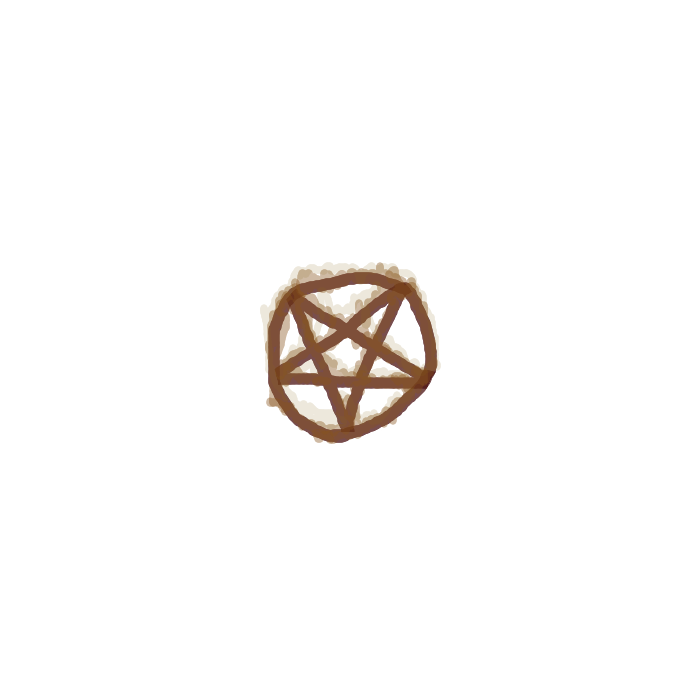
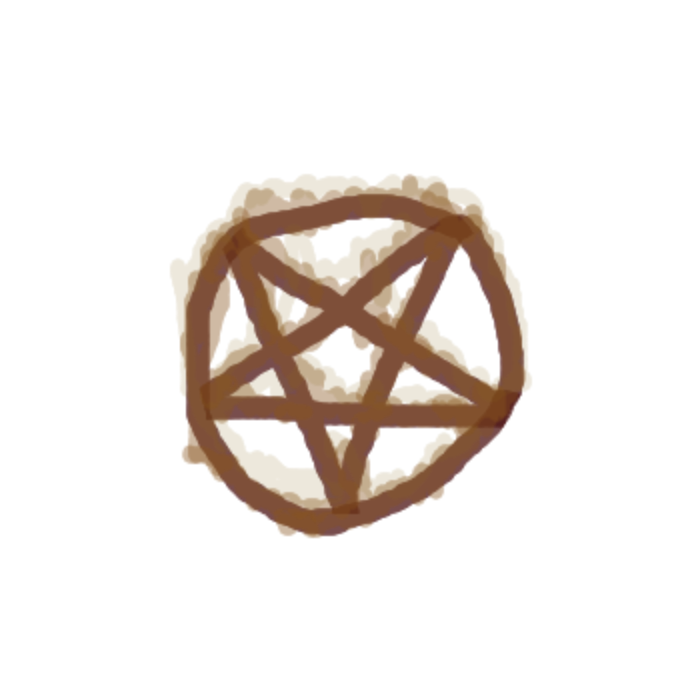
add hell_star

Changed region(s): [[0.24, 0.24, 0.78, 0.78]]

diff --git a/monsters.py b/monsters.py
@@ -213,6 +213,12 @@ class FireBall(Zombie):
             self.ultimatum -= 1
             if not self.ultimatum or not self.target.lives:
                 self.fire = False
+        while self.alive:
+            if self.degeneration:
+                self.degeneration -= 1
+            else:
+                self.alive = False
+            time.sleep(0.01)
 
     def display(self, env):
         fitting = 0.23 * self.dimensions if self.direction % 2 else 0
@@ -224,12 +230,6 @@ class FireBall(Zombie):
         if env.debug and self.fire:
             pygame.draw.line(env.GameManager, (255, 0, 0), (self.target.x + self.target.half, self.target.y + self.target.half), (self.x + self.half, self.y + self.half))
             tools.display(env, self.hitbox.img, self.hitbox.x, self.hitbox.y)
-
-    def update(self):
-        if not self.fire and self.degeneration:
-            self.degeneration -= 1
-        elif not self.fire and not self.degeneration:
-            self.alive = False
 
 class Daemon(Zombie):
     lives = 135
@@ -253,7 +253,7 @@ class Daemon(Zombie):
         self.spell = randint(250, 400)
         self.spell_type = [self.fire_spell , self.star_spell]
         self.fire_ball = FireBall.build_class(env)
-        self.hell_star = bullets.HellStar.build_class(env)
+        self.hell_star = bullets.HellStar.build_class(env, self)
         self.shooting = -1
         self.fire_star = 0
         self.summoning = 4
@@ -284,7 +284,7 @@ class Daemon(Zombie):
             direction, _ = self.sniff_fresh_flesh()
             if direction is not None:
                 self.direction = direction
-                if not self.spelling:
+                if int(self.shooting) == -1:
                     tools.move(self, direction, self.rapidity + self.env.furious)
                 self.hitbox.update_coords(self)
             self.target_hitted()
@@ -298,14 +298,14 @@ class Daemon(Zombie):
             img = self.img_dead[self.direction]
         elif self.furious:
             img = self.img_furious[self.direction]
-        elif self.spelling:
-            img = self.img_spelling[self.direction]
         elif self.injured:
             img = self.img_injured[self.direction]
+        elif self.spelling:
+            img = self.img_spelling[self.direction]
         else:
             img = self.img[self.direction]
         tools.display(env, img, self.x, self.y, fitting)
-        if self.spelling:
+        if int(self.shooting) != -1:
             tools.display(env, self.img_shooting[int(self.shooting) % 8], self.x, self.y, 0.23 * self.dimensions if int(self.shooting) % 2 else 0)
         if env.debug and self.lives:
             pygame.draw.line(env.GameManager, (255, 0, 0), (self.target.x + self.target.half, self.target.y + self.target.half), (self.x + self.half, self.y + self.half))
@@ -328,10 +328,10 @@ class Daemon(Zombie):
         self.shooting = 0.0
 
     def star_spell(self):
-        self.fire_star = 1000
+        self.fire_star = 150
         if self.summoning:
             x, y = self.get_coords(self.summoning)
-            hell_star = self.hell_star(self.env, x, y, self.env.players[randint(0, len(self.env.players))])
+            hell_star = self.hell_star(x, y, self.direction)
             t = Thread(target=hell_star.move, args=())
             t.daemon = True
             self.env.bullets.append(hell_star)
@@ -350,7 +350,7 @@ class Daemon(Zombie):
         elif int(self.shooting) != -1:
             self.shooting = -1
             for i in range(1, 5):
-                x, y = get_coords(i)
+                x, y = self.get_coords(i)
                 fire_ball = self.fire_ball(self.env, x, y, self.env.players[randint(0, len(self.env.players))])
                 t = Thread(target=fire_ball.move, args=())
                 t.daemon = True
@@ -359,9 +359,13 @@ class Daemon(Zombie):
             self.spelling = False
         elif self.fire_star:
             self.fire_star -= 1
+            if not self.fire_star:
+                self.spelling = False
         elif self.spell:
             self.spell -= 1
         else:
+            #randint
+            #self.spell_type[1]()
             self.spell_type[randint(0, len(self.spell_type))]()
             self.spell = randint(500, 1100)
             self.spelling = True
@@ -378,9 +382,8 @@ class   Minion(Zombie):
         return Minion
 
     def __init__(self, env, x, y):
-        self.x = x + env.width + 200 if x > -100 else x
-        self.y = y + env.height + 200 if y > -100 else y
-
+        self.x = x
+        self.y = y
         self.rapidity = randint(3, 7)
         self.rapidity = 4 if self.rapidity > 4 else self.rapidity
         self.hitbox = set_hitbox_monster(env, self, 0.26)

diff --git a/bullets.py b/bullets.py
@@ -78,57 +78,55 @@ class   Bullet:
                 time.sleep(0.01)
 
 class   HellStar:
-    def build_class(env, player):
-        Bullet.dimensions = player.dimensions
-        Bullet.img = tools.set_imgs(env.img_src + "bullets/", "bullet", player.dimensions)
-        Bullet.player = player
-        Bullet.env = env
-        Bullet.limitx = env.width + 100
-        Bullet.limity = env.height + 100
-        return Bullet
+    def build_class(env, monster):
+        HellStar.dimensions = monster.dimensions
+        HellStar.img = tools.set_imgs(env.img_src + "bullets/", "hell_star", monster.dimensions)
+        HellStar.img_off = tools.set_imgs(env.img_src + "bullets/", "hell_star_off", monster.dimensions)
+        HellStar.monster = monster
+        HellStar.env = env
+        return HellStar
 
     def __init__(self, x, y, direction):
         self.x = x
         self.y = y
         self.alive = True
         self.direction = direction
+        self.summoning = 0
         self.fitting = 0.23 * self.dimensions if self.direction % 2 else 0
-        self.hitbox = set_hitbox_bullet(self.env, self)
-        tools.move(self, self.direction)
+        self.hitbox = set_hitbox_bullet(self.env, self, 0.40)
 
     def display(self, env):
-        tools.display(env, self.img[self.direction], self.x, self.y, self.fitting)
+        if self.summoning and not self.monster.fire_star:
+            tools.display(env, self.img[self.direction], self.x, self.y, self.fitting)
+        else:
+            tools.display(env, self.img_off[self.direction], self.x, self.y, self.fitting)
         if env.debug:
             tools.display(env, self.hitbox.img, self.hitbox.x, self.hitbox.y)
-
-    def limits_reached(self):
-        if self.x < -100 or self.y < -100 or self.y > self.limity or self.x > self.limitx:
-            return True
-        return False
     
     def target_hitted(self):
-        ret = False
         for player in self.env.players:
-            if player is not self.player and player.affected(self):
+            if player.affected(self):
                 player.hitted()
-                ret = True
-        for monster in self.env.monsters:
-            if monster.affected(self):
-                self.player.score += monster.hitted()
-                ret = True
-        return ret
 
     def dead(self):
         self.alive = False
 
     def move(self):
         while True:
-            tools.move(self, self.direction)
-            if self.limits_reached():
+            if self.monster.fire_star:
+                self.summoning = 600
+            if not self.monster.fire_star and self.summoning:
+                self.target_hitted()
+            if not (self.summoning + 100) % 220:
+                monster = self.env.monster_type['minion'](self.env, self.x, self.y)
+                t = Thread(target=monster.move, args=())
+                t.daemon = True
+                self.env.monsters.append(monster)
+                t.start()
+            if not self.monster.lives:
                 return self.dead()
-            self.hitbox.update_coords(self)
-            if self.target_hitted():
-                return self.dead()
+            if self.summoning:
+                self.summoning -= 1
             time.sleep(0.01)
             while self.env.pause:
                 time.sleep(0.01)

diff --git a/events.py b/events.py
@@ -59,7 +59,7 @@ def wave_debug(env):
     time.sleep(5)
     env.titles.remove(title)
 
-    monsters = ['jack_lantern', 'zombie', 'cyclops', 'minion']
+    monsters = ['jack_lantern', 'zombie', 'cyclops']
     while True:
         for monster in monsters:
             env.spawn(monster)
